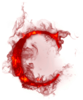
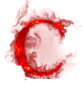
Menu/fix: Had normalized letters size

diff --git a/src/game-field.js b/src/game-field.js
@@ -50,7 +50,11 @@ export default function drawField(context, canvas) {
 
                 drawBackgroundLayer(context);
                 sprites.update(deltaTime, context);
-                font.print('QWE', context, 0, 300);
+                font.print('!@#$%*,', context, 0, 100, 90, 90);
+                font.print('1234567890', context, 0, 200, 90, 90);
+                font.print('QWERTYUIOP', context, 0, 300, 90, 90);
+                font.print('ASDFGHJKL', context, 0, 400, 90, 90);
+                font.print('ZXCVBNM', context, 0, 500, 90, 90);
 
                 drawCollisions(context, sprites.camera);
                 drawCameraView(context, sprites.camera);

diff --git a/src/Font.js b/src/Font.js
@@ -5,11 +5,11 @@ export default class Font extends Spritesheet {
         super(image, data);
     }
 
-    print(text, context, x, y, flip) {
+    print(text, context, x, y, sizeX, sizeY, flip) {
         [...text].forEach( (letter, index) => {
             const buffer = this.tiles.get(`${letter}.png`)[flip ? 1 : 0];
 
-            context.drawImage(buffer, x + index * buffer.width), y);
+            context.drawImage(buffer, x + index * sizeX, y, sizeX, sizeY);
         });
     }
 }
